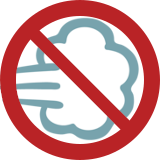
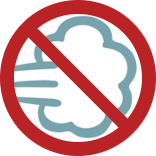
updated readme & preview pics

diff --git a/README.md b/README.md
@@ -1,5 +1,5 @@
 # Petition - Stop Headwind
-authenticated petition website built with handlebars
+Authenticated petition website built with handlebars
 
 sign the petition for a world without headwind on bike lanes:
 https://stopheadwind.herokuapp.com/
